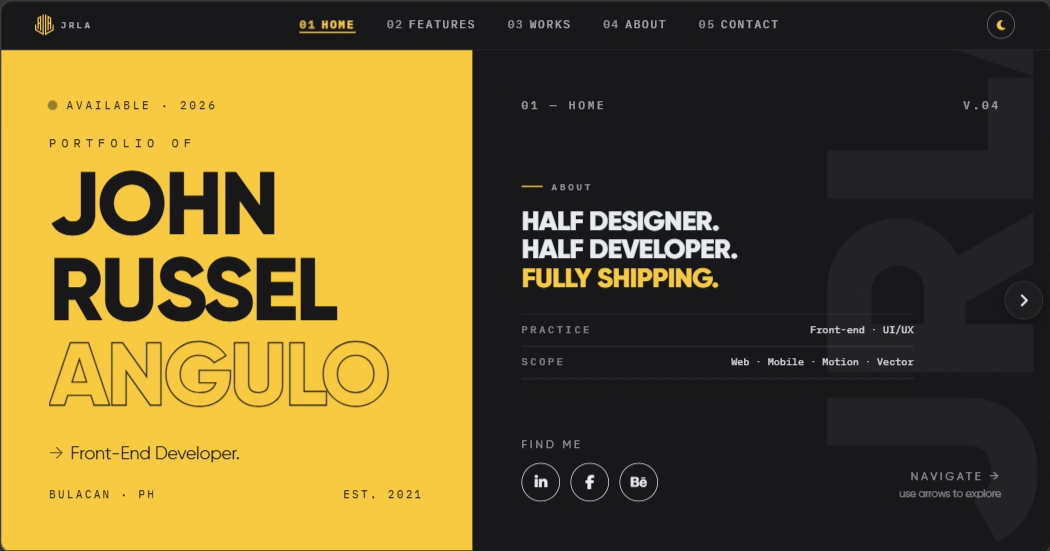
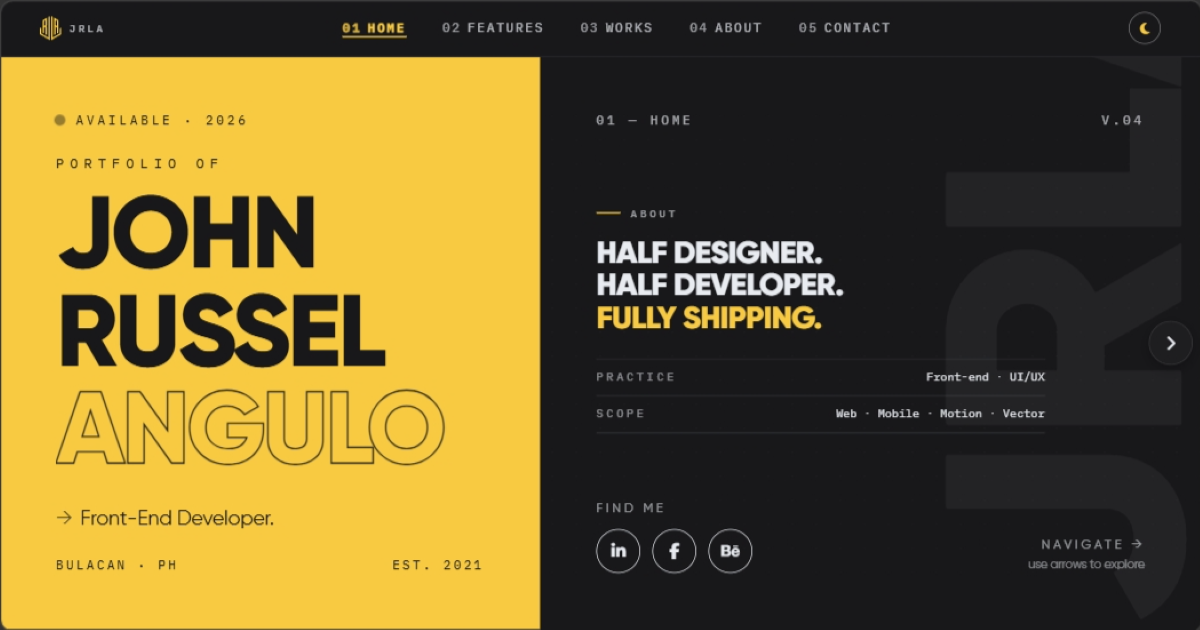
seo: fix mojibake, add robots/sitemap, schema + security headers
- index.html: UTF-8 em-dashes, dual theme-color, og:locale, twitter:image:alt,
  robots meta, full Person.sameAs, address, WebSite schema, preconnect
- WorkDetails: project title is now an h1
- public/robots.txt + sitemap.xml with image entry
- firebase.json: HSTS, nosniff, Referrer-Policy, Permissions-Policy,
  proper content-types for sitemap.xml and robots.txt

diff --git a/index.html b/index.html
@@ -1,30 +1,33 @@
-<!DOCTYPE html>
+<!DOCTYPE html>
 <html lang="en" class="h-full relative">
   <head>
     <meta charset="UTF-8" />
     <meta name="viewport" content="width=device-width, initial-scale=1.0, viewport-fit=cover" />
-    <meta name="theme-color" content="#18181b" />
+    <meta name="theme-color" content="#ffffff" media="(prefers-color-scheme: light)" />
+    <meta name="theme-color" content="#18181b" media="(prefers-color-scheme: dark)" />
 
-    <title>John Russel Angulo â€” Front-End Developer & UI/UX Designer</title>
-    <meta name="description" content="John Russel Angulo â€” front-end developer & UI/UX designer building fast, polished websites, mobile apps, and motion-driven brand experiences." />
+    <title>John Russel Angulo — Front-End Developer & UI/UX Designer</title>
+    <meta name="description" content="John Russel Angulo — front-end developer & UI/UX designer building fast, polished websites, mobile apps, and motion-driven brand experiences." />
     <meta name="author" content="John Russel L. Angulo" />
-    <meta name="keywords" content="John Russel Angulo, JRLA, portfolio, front-end developer, UI/UX designer, Vue, web developer Philippines" />
+    <meta name="robots" content="index, follow, max-image-preview:large" />
 
     <meta property="og:type" content="website" />
-    <meta property="og:title" content="John Russel Angulo â€” Front-End Developer & UI/UX Designer" />
+    <meta property="og:title" content="John Russel Angulo — Front-End Developer & UI/UX Designer" />
     <meta property="og:description" content="Front-end developer & UI/UX designer building fast, polished websites, mobile interfaces, and motion-driven brand experiences. Explore selected work and case studies." />
     <meta property="og:url" content="https://jrla1219.web.app/" />
     <meta property="og:image" content="https://jrla1219.web.app/JRLA-Website.png" />
     <meta property="og:image:type" content="image/png" />
     <meta property="og:image:width" content="1200" />
     <meta property="og:image:height" content="630" />
-    <meta property="og:image:alt" content="JRLA Portfolio â€” John Russel Angulo" />
+    <meta property="og:image:alt" content="JRLA Portfolio — John Russel Angulo" />
     <meta property="og:site_name" content="JRLA Portfolio" />
+    <meta property="og:locale" content="en_US" />
 
     <meta name="twitter:card" content="summary_large_image" />
-    <meta name="twitter:title" content="John Russel Angulo â€” Front-End Developer & UI/UX Designer" />
+    <meta name="twitter:title" content="John Russel Angulo — Front-End Developer & UI/UX Designer" />
     <meta name="twitter:description" content="Front-end developer & UI/UX designer building fast, polished websites, mobile interfaces, and motion-driven brand experiences. Explore selected work and case studies." />
     <meta name="twitter:image" content="https://jrla1219.web.app/JRLA-Website.png" />
+    <meta name="twitter:image:alt" content="JRLA Portfolio — John Russel Angulo" />
 
     <link rel="canonical" href="https://jrla1219.web.app/" />
 
@@ -34,6 +37,9 @@
     <link rel="manifest" href="/site.webmanifest" />
     <link rel="mask-icon" href="/safari-pinned-tab.svg" color="#4f4f4f" />
     <meta name="msapplication-TileColor" content="#ffffff" />
+
+    <link rel="preconnect" href="https://www.google.com" crossorigin />
+    <link rel="dns-prefetch" href="https://www.google.com" />
 
     <link href="/fonts/fontawesome/css/fontawesome.min.css" rel="stylesheet" />
     <link href="/fonts/fontawesome/css/brands.min.css" rel="stylesheet" />
@@ -62,8 +68,27 @@
         "name": "John Russel L. Angulo",
         "alternateName": "JRLA",
         "url": "https://jrla1219.web.app/",
+        "image": "https://jrla1219.web.app/JRLA-Website.png",
         "jobTitle": "Front-End Developer & UI/UX Designer",
-        "sameAs": []
+        "address": {
+          "@type": "PostalAddress",
+          "addressRegion": "Bulacan",
+          "addressCountry": "PH"
+        },
+        "sameAs": [
+          "https://www.linkedin.com/in/jrla1219/",
+          "https://www.facebook.com/Jano1219",
+          "https://www.behance.net/JRLA"
+        ]
+      }
+    </script>
+    <script type="application/ld+json">
+      {
+        "@context": "https://schema.org",
+        "@type": "WebSite",
+        "name": "JRLA Portfolio",
+        "url": "https://jrla1219.web.app/",
+        "inLanguage": "en"
       }
     </script>
   </head>
@@ -72,4 +97,3 @@
     <script type="module" src="/src/main.js"></script>
   </body>
 </html>
-

diff --git a/src/components/WorkDetails.vue b/src/components/WorkDetails.vue
@@ -9,7 +9,7 @@
               <i class="fa-solid fa-arrow-left"></i>
               <span>Back to Works</span>
             </button>
-            <p class="text-3xl font-bold uppercase">{{ work.title }}</p>
+            <h1 class="text-3xl font-bold uppercase">{{ work.title }}</h1>
             <div class="font-Mono text-sm tracking-wide">
               <div class="flex justify-between border-b border-white/15 py-1.5">
                 <p class="uppercase opacity-70">Role</p>
